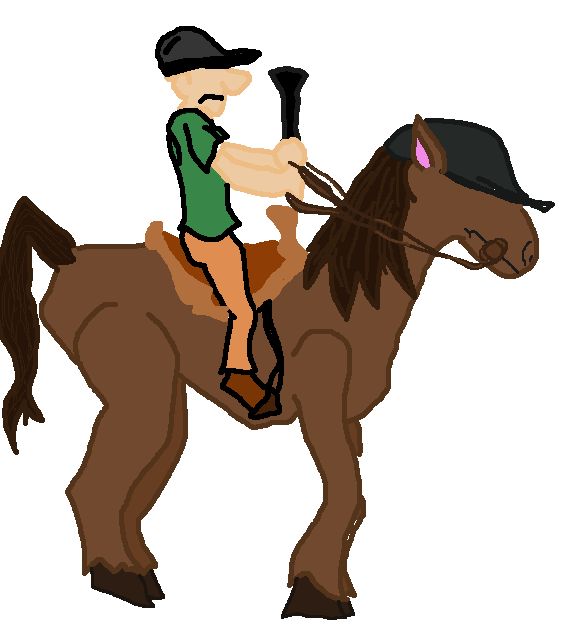
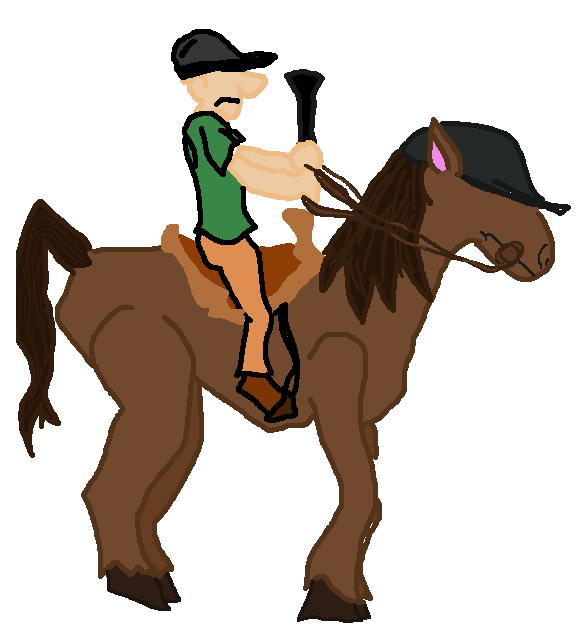
Jocky Bully
WIP

Changed region(s): [[0.0, 0.0312, 1.0, 0.9984], [0.2365, 0.7176, 0.2661, 0.7488]]

diff --git a/FluffyUnicorn/Assets/Scripts/EnemyScipts/HorsebackBully.cs b/FluffyUnicorn/Assets/Scripts/EnemyScipts/HorsebackBully.cs
@@ -1,0 +1,109 @@
+using UnityEngine;
+using System.Collections;
+using System.Collections.Generic;
+
+public class HorsebackBully : MonoBehaviour
+
+    private GameObject Player_;
+    private SpawnEnemies EnemySpawner_;
+    private GameObject newEnemy;
+    private BullyScript Bully_;
+
+    private List<GameObject> Horses_ = new List<GameObject>();
+
+    private int MaxSpawn_ = 1;
+
+    private float Respawn_ = 10.0f;
+    private float Reset_ = 5.0f;
+
+    private Rigidbody2D Velocity_;
+
+    private Vector2 Pos_;
+
+    private bool FirstSpawn_ = true;
+	
+	void Start () 
+    {
+        Player_ = GameObject.FindGameObjectWithTag("Player");
+        EnemySpawner_ = GameObject.FindGameObjectWithTag("EnemySpawner").GetComponent<SpawnEnemies>();
+        Velocity_ = gameObject.GetComponent<Rigidbody2D>();
+        Bully_ = gameObject.GetComponent<BullyScript>();
+	}
+	
+	void Update () 
+    {
+        Respawn_ -= Time.deltaTime;
+        Reset_ -= Time.deltaTime;
+
+        if (FirstSpawn_ == true)
+        {
+            SetJockys();
+            Debug.Log("Set!");
+            FirstSpawn_ = false;
+        }
+        FirstSpawn_ = false;
+
+        if(Respawn_ <= 0.0f)
+        {
+            RecycleJockys();
+            Respawn_ = 10.0f;
+        }
+        if(Reset_ <= 0.0f)
+        {
+            for (int i = 0; i < Horses_.Count; ++i)
+            {
+                Velocity_.velocity = new Vector2(0.0f, 0.0f);
+            }
+        }
+
+        for(int i = 0; i < Horses_.Count; ++i)
+        {
+            Velocity_.velocity = new Vector2(3.0f, 0.0f);
+        }
+	
+	}
+
+    void SetJockys()
+    {
+        int row = 0;
+        Vector2 StartPos = new Vector2(11.0f, 0.0f);
+        for (int i = 0; i < EnemySpawner_.mEnemiesToSpawn.Length; ++i)
+        {
+            string bullyName = EnemySpawner_.mEnemiesToSpawn[i].name;
+            if (bullyName == "Jocky Bully")
+            {
+                for (int j = 0; j < MaxSpawn_; ++j)
+                {
+                    newEnemy = Objectpooler.Instance.GetObjectForType(bullyName, true);//new enemy is created
+                    newEnemy.transform.position = StartPos;
+                    Horses_.Add(newEnemy);
+                    newEnemy.Bully_.InitEnemy(StartPos, row, newEnemy);
+                }
+
+            }
+        }
+    }
+
+    void RecycleJockys()
+    {
+        int startPos = Random.Range(0, 2);
+        int row = 0;
+        if(startPos == 0)
+        {
+            row = 0;
+        }
+        if(startPos == 1)
+        {
+            row = 1;
+        }
+        if (startPos == 2)
+        {
+            row = 2;
+        }
+
+        for (int j = 0; j < Horses_.Count; ++j)
+        {
+            Horses_[j].transform.position = new Vector2(Horses_[j].transform.position.x, m_TargetPoints[row].transform.position.y);
+        }
+    }
+}
